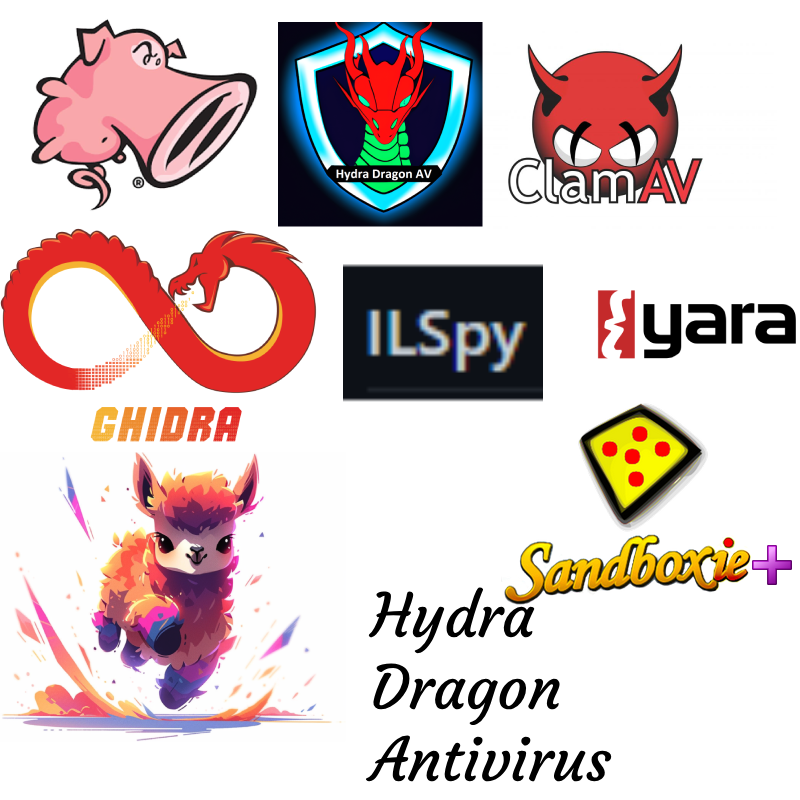
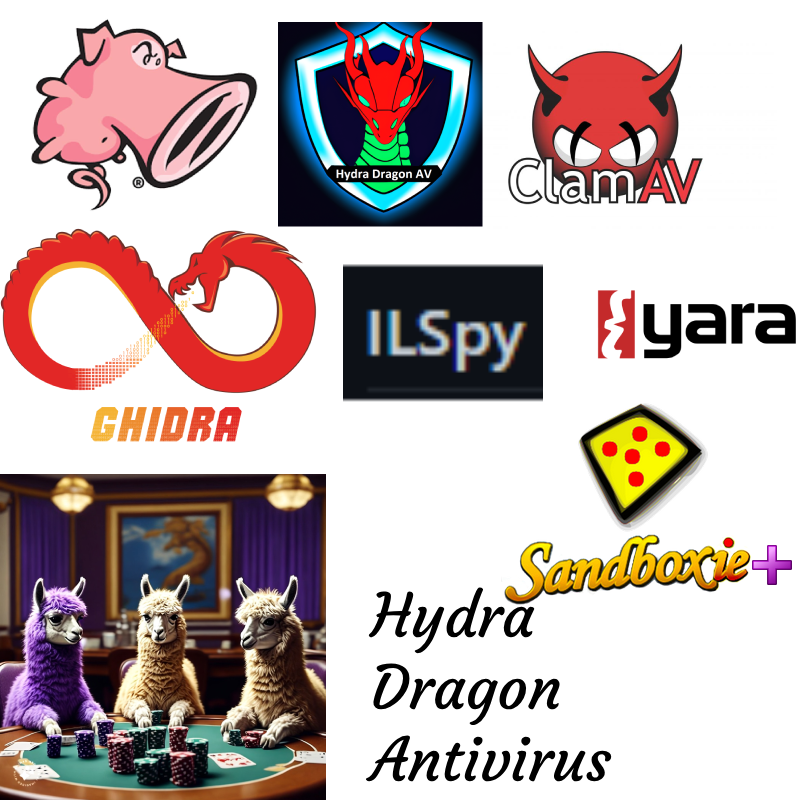
Switching to Llama3.2

Changed region(s): [[0.0, 0.5625, 0.4062, 1.0]]

diff --git a/README.md b/README.md
@@ -47,7 +47,7 @@ Dynamic and Static Analysis with Sandboxie for Windows with ClamAV, YARA-X, my m
  - Any ghidra project will be removed after you restart the program. So be careful!
 - You have to restart the program after the analysis.
 - Please don't share your IP in the logs.
-- Please put TinyLlama (Extract TinyLlama.7z) in the folder C:\Program Files\HydraDragonAntivirus\TinyLlama (Add TinyLlama files like model.safetensors) otherwise the antivirus won't work.
+- Please put Llama3.2-1B (Extract Llama3.2-1B.7z) in the folder C:\Program Files\HydraDragonAntivirus\Llama3.2-1B (Add Llama3.2-1B files like model.safetensors) otherwise the antivirus won't work.
 - Please put _internal (Exract _internal.7z) in the folder C:\Program Files\HydraDragonAntivirus\_internal otherwise the antivirus won't work.
 
 ## Discord Community Server
@@ -81,7 +81,7 @@ Dynamic and Static Analysis with Sandboxie for Windows with ClamAV, YARA-X, my m
 - I used these projects to decompile.
 
 - https://github.com/starhopp3r/ML-Antivirus
-- https://huggingface.co/TinyLlama/TinyLlama-1.1B-Chat-v1.0
+- https://huggingface.co/meta-llama/Llama-3.2-1B
 
 - I used these projects for AI.
 
@@ -120,8 +120,8 @@ Dynamic and Static Analysis with Sandboxie for Windows with ClamAV, YARA-X, my m
 **Why does my antivirus detect this as malware?**
 - It's a false positive. It's a one-file compiled Pyinstaller file and contains the website, HIPS signatures without obfuscation. It's a fully open source product.
 
-**Why is it 5GB+?**
-- Because of website signatures, Ghidra, ClamAV and Java Development Kit. Website signatures are not very effective but they can detect old and new viruses. I can remove them if you want. Ghidra is for decompiling but takes too much space. Java Development Kit is for Ghidra. That's 1GB+, but TinyLlama and Pyinstaller (transformers, torch modules etc.) make a total of 5GB+. Note that it's a completely local and very professional open source antivirus.
+**Why is it 6GB+?**
+- Because of website signatures, Ghidra, ClamAV and Java Development Kit. Website signatures are not very effective but they can detect old and new viruses. I can remove them if you want. Ghidra is for decompiling 6but takes too much space. Java Development Kit is for Ghidra. That's 1GB+, but Llama3.2-1B and Pyinstaller (transformers, torch modules etc.) make a total of GB+. Note that it's a completely local and very professional open source antivirus.
 
 **I get unexpected errors when using compiled YARA-X rules.**
 - I don't usually encounter this problem, please create an issue.
@@ -133,7 +133,7 @@ Dynamic and Static Analysis with Sandboxie for Windows with ClamAV, YARA-X, my m
 - Windows 10 64-bit and Windows 11 only (you can run ClamAV, but you can't run HydraDragonAntivirus on Windows 8.1 and it's not supported). If you want, I can create a 32-bit version for Windows 10 32-bit, but I faced some problems. ClamAV has limitations on 32-bit, so it's problematic. On Windows 8.1, ClamAV isn't supported because it's an outdated Windows version. You will get the `api-ms-win-crt-runtime-l1-1-0.dll` error. Even if you add this DLL, you will get another error: "Application failed to start properly (0xc000007b)." Then install this: [Microsoft VC Redist](https://learn.microsoft.com/en-us/cpp/windows/latest-supported-vc-redist?view=msvc-170). After running `C:\Program Files\ClamAV\freshclam.exe` and `clamd.exe` with `clamd --install`, the setup is complete, but you can't run HydraDragonAntivirus on Windows 8.1 because you get an ImportError on line nine due to PySide6.
 
 **Minimum RAM?**
-- 8GB RAM is the minimum because I am using TinyLlama locally. I strongly recommend 8GB RAM.
+- 8GB RAM is the minimum because I am using Llama3.2-1B locally. I strongly recommend 8GB RAM.
 
 **Any sponsors or supporters?**
 - Yes, there are supporters of this project. Xcitium (Comodo) has expressed interest in supporting this project by sending malware samples, and Cisco Talos ClamAV community projects.
